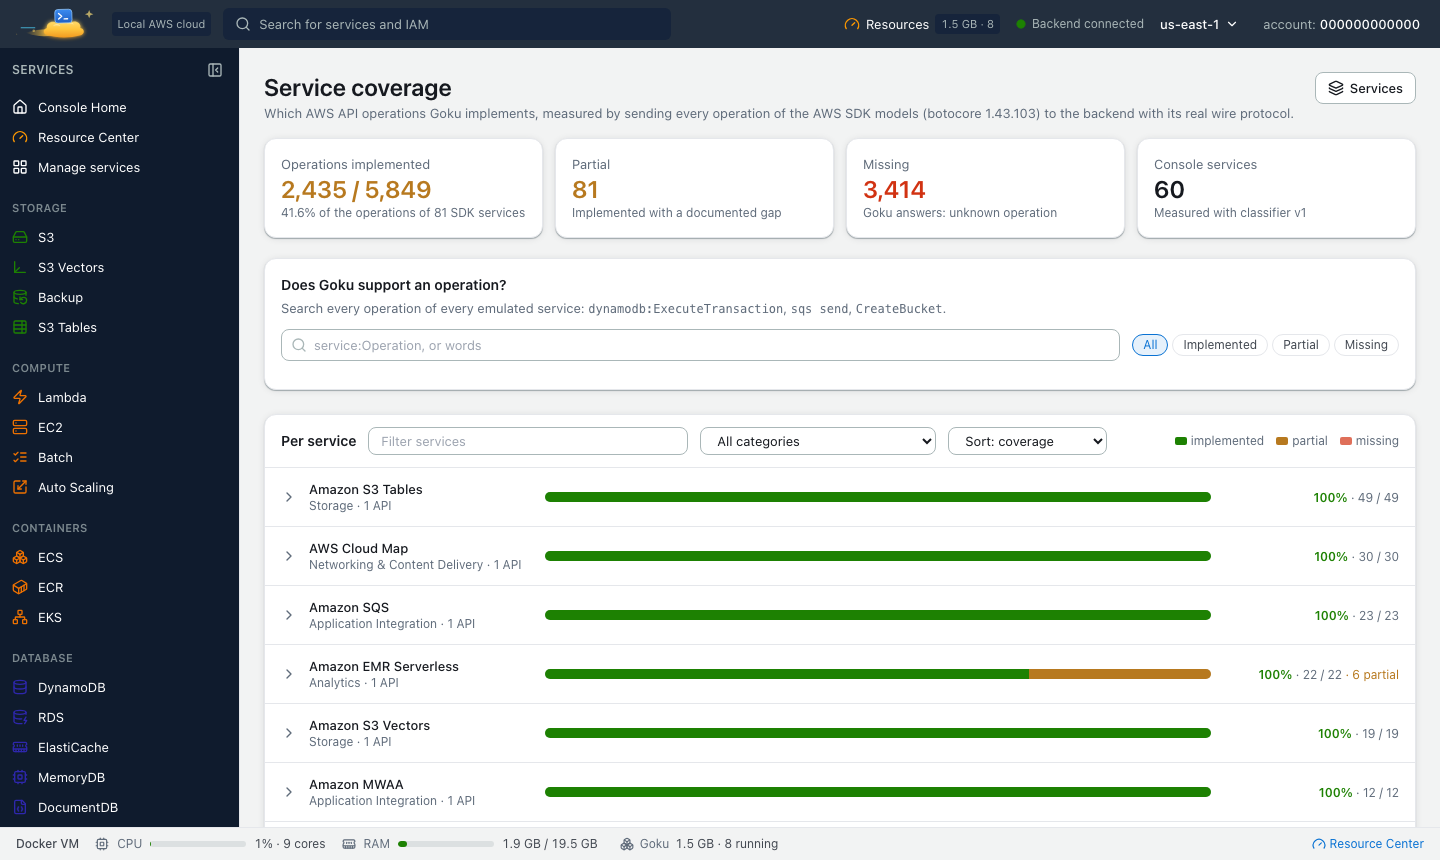
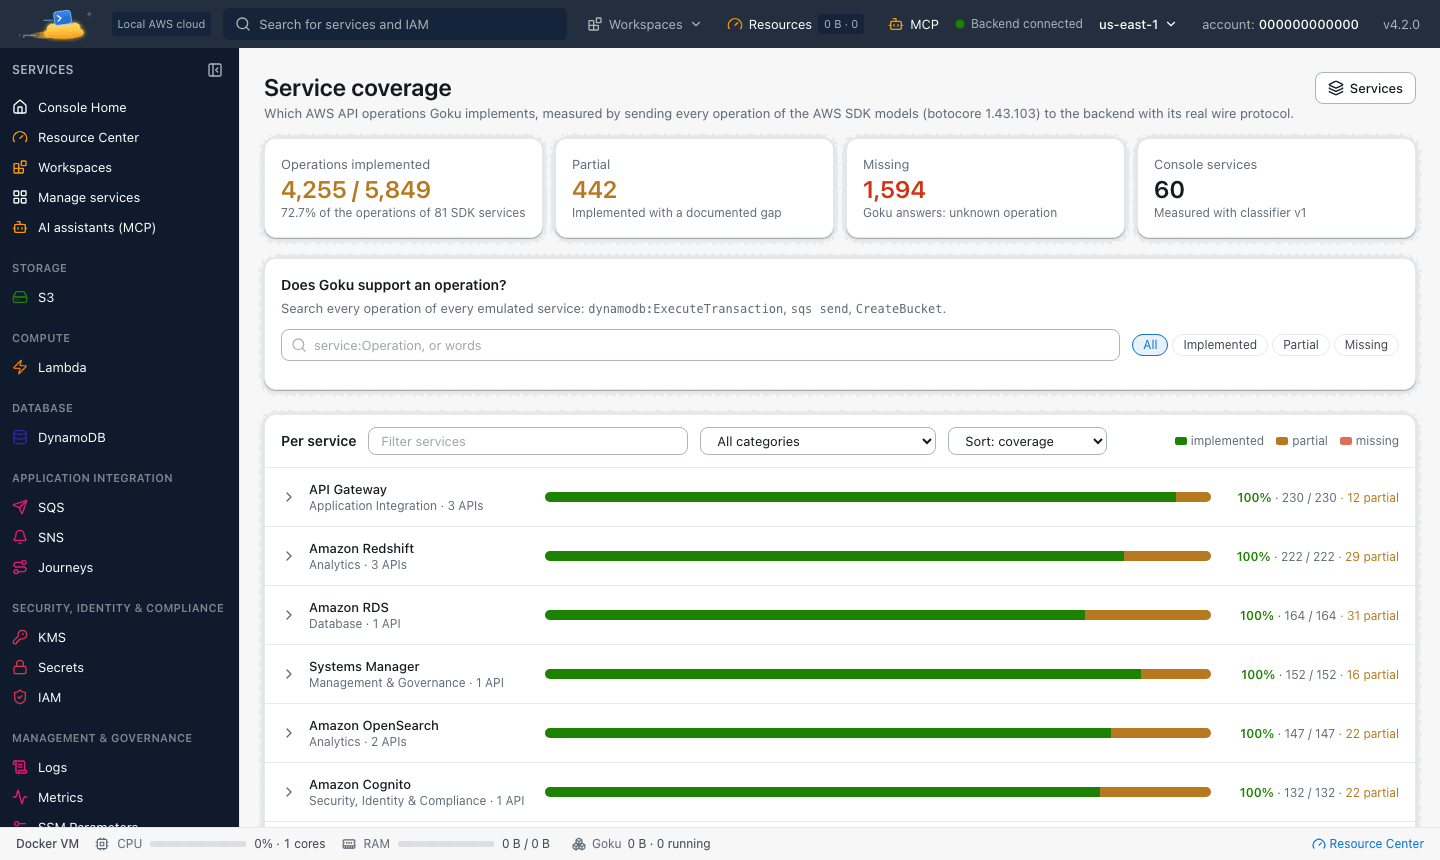
What's new in 4.2: screenshots of Workspaces, the workspace switcher, AI assistants, role permissions and the Service coverage page

diff --git a/index.html b/index.html
@@ -212,6 +212,15 @@
     img.shot.modal { max-width: 768px; display: block; margin-left: auto; margin-right: auto; }
 
     /* What's new */
+    /* What's new: screenshots of the new features */
+    .shotgrid { display: grid; grid-template-columns: repeat(2, minmax(0, 1fr)); gap: 22px 20px; align-items: start; margin: 26px 0 10px; }
+    .shotgrid figure { margin: 0; }
+    figure.wn-shot { margin: 18px 0 8px; }
+    .shotgrid picture, figure.wn-shot picture { display: block; }
+    .shotgrid img, figure.wn-shot img { display: block; width: 100%; height: auto; border: 1px solid var(--line); border-radius: 12px; box-shadow: 0 12px 40px rgba(0,0,0,0.45); }
+    .shotgrid figcaption, figure.wn-shot figcaption { font-size: 0.88rem; color: var(--muted); margin-top: 10px; line-height: 1.5; }
+    .shotgrid figcaption strong, figure.wn-shot figcaption strong { color: var(--ink); }
+    @media (max-width: 760px) { .shotgrid { grid-template-columns: 1fr; } }
     .rename { background: linear-gradient(135deg, rgba(20,184,166,0.10), rgba(76,201,240,0.06)); border: 1px solid var(--line); border-left: 3px solid var(--teal); border-radius: 14px; padding: 22px 22px 10px; margin: 22px 0 18px; }
     .rename h3 { font-size: 1.25rem; font-weight: 800; color: var(--ink); margin-bottom: 8px; }
     .rename ul { list-style: none; margin: 4px 0 12px; }
@@ -363,6 +372,25 @@
       </div>
     </div>
 
+    <div class="shotgrid" aria-label="Screenshots of the features new in Goku 4.2">
+      <figure>
+        <picture><source type="image/webp" srcset="screenshots/services/workspaces.webp"><img src="screenshots/services/workspaces.png" width="1440" height="860" alt="The Workspaces page in the Goku console: running, paused and stopped workspaces with their services, containers, memory and CPU" loading="lazy" decoding="async"></picture>
+        <figcaption><strong>Workspaces.</strong> Every workspace with its state, services, memory and CPU, live, and one-click Start, Pause, Stop or Switch. <a href="workspaces.html">Workspaces guide</a></figcaption>
+      </figure>
+      <figure>
+        <picture><source type="image/webp" srcset="screenshots/goku-mcp-ai-assistants-page.webp"><img src="screenshots/goku-mcp-ai-assistants-page.png" width="1440" height="860" alt="The AI assistants (MCP) page in the Goku console with the MCP endpoint and copy-paste setup for Claude Code, Claude Desktop, Cursor and VS Code" loading="lazy" decoding="async"></picture>
+        <figcaption><strong>AI assistants (MCP).</strong> Connect Claude Code, Cursor, VS Code and others to your local AWS: 34 tools, now including workspaces and role access. <a href="mcp.html">MCP guide</a></figcaption>
+      </figure>
+      <figure>
+        <picture><source type="image/webp" srcset="screenshots/workspaces-switcher-console-top-bar.webp"><img src="screenshots/workspaces-switcher-console-top-bar.png" width="1216" height="1054" alt="The workspace switcher in the Goku console top bar listing workspaces with their state and Start, Pause, Stop and Switch actions" loading="lazy" decoding="async"></picture>
+        <figcaption><strong>The switcher in the top bar.</strong> Switch to another workspace from any page. Pause keeps memory; Stop frees it.</figcaption>
+      </figure>
+      <figure>
+        <picture><source type="image/webp" srcset="screenshots/iam-role-effective-permissions-by-service.webp"><img src="screenshots/iam-role-effective-permissions-by-service.png" width="1118" height="1020" alt="The IAM Lab role access page in the Goku console showing an AWS role&rsquo;s allowed actions per service, with resource scope and conditions" loading="lazy" decoding="async"></picture>
+        <figcaption><strong>What an AWS role can do.</strong> Every action a role in your AWS account is allowed, per service, with the policy statement behind it. <a href="aws-iam-role-permissions.html">Role permissions guide</a></figcaption>
+      </figure>
+    </div>
+
     <div class="rename">
       <h3>4,255 of 5,849 AWS operations: 73%, up from 42%</h3>
       <p>Goku 4.2 adds 1,820 operations. Each one keeps real state and follows AWS's request and response shapes, errors and paging.</p>
@@ -371,6 +399,10 @@
         <li><strong>All 14 data services are complete,</strong> 1,147 of 1,147: RDS, Neptune, DocumentDB, Redshift and Redshift Serverless, OpenSearch and the Elasticsearch Service API, ElastiCache, MemoryDB, MSK, AWS Backup, Transfer Family, EKS and Lake Formation.</li>
         <li><strong>Gaps are marked.</strong> Where AWS does work that can't be reproduced locally, the operation is marked <strong>partial</strong> on the console's Service coverage page, with a note saying what is missing.</li>
       </ul>
+      <figure class="wn-shot">
+        <picture><source type="image/webp" srcset="screenshots/goku-service-coverage-73-percent-aws-operations.webp"><img src="screenshots/goku-service-coverage-73-percent-aws-operations.png" width="1440" height="860" alt="The Service coverage page in the Goku console: 4,255 of 5,849 AWS operations implemented, 442 partial, with API Gateway, Redshift, RDS, Systems Manager, OpenSearch and Cognito at 100%" loading="lazy" decoding="async"></picture>
+        <figcaption><strong>Service coverage</strong> in the console: search any AWS operation to see whether Goku answers it, and what is partial.</figcaption>
+      </figure>
     </div>
 
     <div class="table-card">
